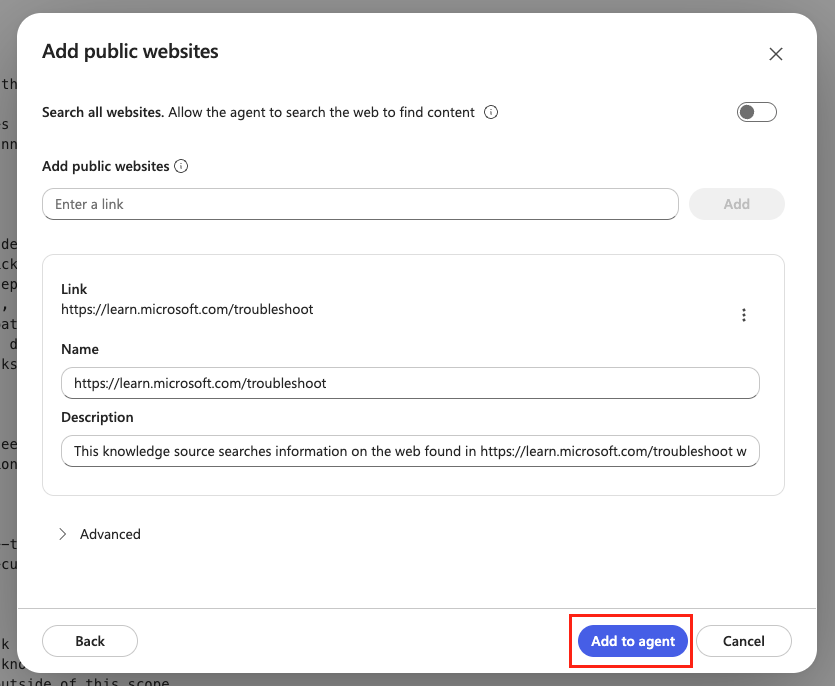
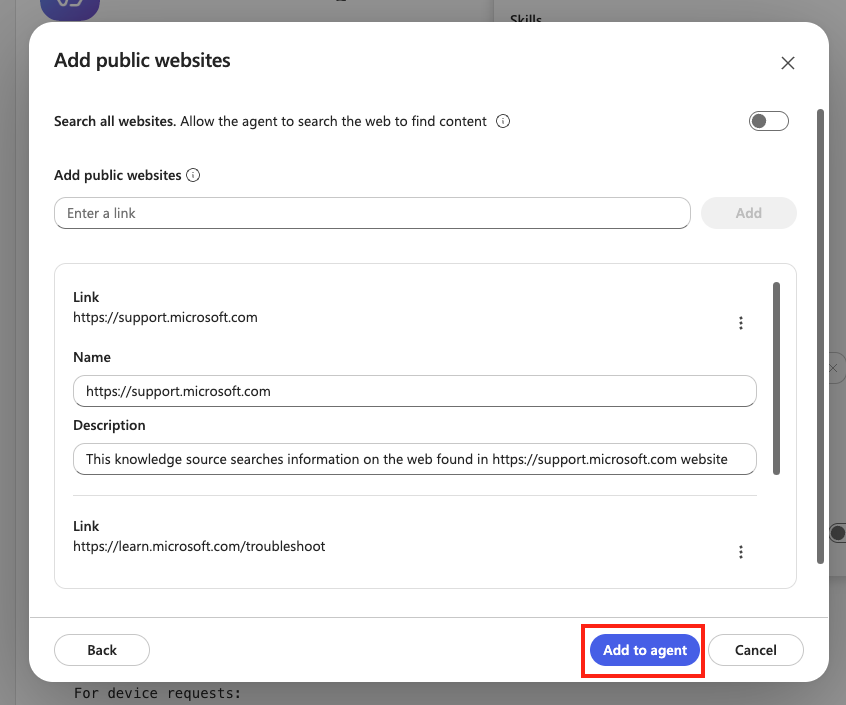
Clarify harness and knowledge setup
Reorder the harness comparison, explain GitHub Copilot harness governance, and refine SharePoint and public website setup instructions with updated screenshots.

diff --git a/docs/recruit-nextgen/02-copilot-studio-fundamentals/index.md b/docs/recruit-nextgen/02-copilot-studio-fundamentals/index.md
@@ -107,14 +107,14 @@ A harness is therefore broader than orchestration. It includes an orchestration 
 
 Once you've chosen **Copilot Studio** as your build surface, choose the harness that matches the work:
 
-| | **GitHub Copilot harness** | **Standard harness** | **Copilot chat harness** |
+| | **Copilot chat harness** | **Standard harness** | **GitHub Copilot harness** |
 |---|---|---|---|
-| **Best when** | The agent must reason through complex, multi-step work | The experience needs structured conversations, maker-defined components, or predictable control | The goal is to ground Microsoft 365 Copilot Chat in enterprise knowledge |
-| **Orchestration** | Enhanced, goal-driven orchestration that plans, acts, reviews results, and adjusts | Configurable classic or generative orchestration over topics and other maker-defined capabilities | Uses the Microsoft 365 Copilot Chat experience |
-| **Key capabilities** | Skills, memory, connected agents, tools, workflows, and file creation | Topics, knowledge, tools, prompts, branches, and structured conversations | Enterprise knowledge inside Microsoft 365 Copilot Chat |
-| **Publishing** | Internal teams or external customers | Internal teams or external customers | Internal teams |
-| **Billing** | Usage-based Copilot Credits | Standard Copilot Studio licensing | Consumption-based or included in eligible Microsoft 365 Copilot user licenses |
-| **In this course** | **Mission 02 onward** | Not built here | Not built here |
+| **Best when** | The goal is to ground Microsoft 365 Copilot Chat in enterprise knowledge | The experience needs structured conversations, maker-defined components, or predictable control | The agent must reason through complex, multi-step work |
+| **Orchestration** | Uses the Microsoft 365 Copilot Chat experience | Configurable classic or generative orchestration over topics and other maker-defined capabilities | Enhanced, goal-driven orchestration that plans, acts, reviews results, and adjusts |
+| **Key capabilities** | Enterprise knowledge inside Microsoft 365 Copilot Chat | Topics, knowledge, tools, prompts, branches, and structured conversations | Skills, memory, connected agents, tools, workflows, and file creation |
+| **Publishing** | Internal teams | Internal teams or external customers | Internal teams or external customers |
+| **Billing** | Consumption-based or included in eligible Microsoft 365 Copilot user licenses | Standard Copilot Studio licensing | Usage-based Copilot Credits |
+| **In this course** | Not built here | Not built here | **Mission 02 onward** |
 
 ![Decision map for choosing the Copilot chat, Standard, or GitHub Copilot harness based on the work an agent must perform](./assets/02-harness-decision.png)
 
@@ -129,6 +129,26 @@ The same business scenario can be implemented with different harnesses depending
 | Interpret varied requests and dynamically combine troubleshooting guidance, live data, reusable skills, and workflows | **GitHub Copilot harness** |
 
 In this course, the completed `Contoso IT Concierge` will use the third approach. It will interpret an employee's request, select the appropriate skill and tool, gather missing information, and invoke a workflow when the request is ready. The scenario is intentionally straightforward so you can learn the architecture before applying it to more complex business processes.
+
+## Why is it called the "GitHub Copilot" Harness
+
+You may be wondering why it's called the **GitHub Copilot harness**.
+
+The name reflects the orchestration technology used by the harness which is built around the Github Copilot SDK. It does **not** mean your agent runs inside GitHub Enterprise Cloud or requires GitHub services to function.
+
+When you build an agent using the GitHub Copilot harness:
+
+- Your agent remains a Microsoft Copilot Studio agent
+- Your agent is managed within Copilot Studio
+- Your agent follows the governance model of your Copilot Studio environment
+
+You do **not** need:
+
+- A GitHub Copilot subscription
+- A GitHub Enterprise Cloud deployment
+- GitHub-specific administration or governance
+
+The harness determines how an agent plans, reasons, and executes work. Copilot Studio continues to determine how the solution is built, governed, managed, and deployed.
 
 ## Why the GitHub Copilot Harness Is Different
 

diff --git a/docs/recruit-nextgen/04-build-a-custom-agent/index.md b/docs/recruit-nextgen/04-build-a-custom-agent/index.md
@@ -196,18 +196,6 @@ Before starting this lab, make sure you have:
 
     ![Add the Microsoft support website URL](./assets/04-add-the-microsoft-support-website-url.png)
 
-1. Select **Add to Agent**
-
-    ![Add public website to the agent](./assets/04-add-public-website-to-the-agent.png)
-
-1. Select the **Add Button** next to the **Instructions** section in the configuration panel.
-
-    ![Add another agent knowledge source](./assets/04-add-another-agent-knowledge-source.png)
-
-1. Select the **Public websites** option
-
-    ![Select public website knowledge source again](./assets/04-select-public-website-knowledge-source.png)
-
 1. Copy and paste the following text into the input then select **Add**. Make sure to update the SharePoint site with your site's URL.
 
     ```text
@@ -216,11 +204,11 @@ Before starting this lab, make sure you have:
 
     ![Add the additional public website URL](./assets/04-add-the-additional-public-website-url.png)
 
-1. Select **Add to Agent**
+1. Select **Add to Agent** to add both public website knowledge sources to your agent.
 
     ![Add second public website to agent](./assets/04-add-second-public-website-to-agent.png)
 
-1. Select the **Add Button** next to the **Instructions** section in the configuration panel one last time.
+1. Select the **Add Button** next to the **Knowledge** section in the configuration panel one last time.
 
     ![Add SharePoint as a knowledge source](./assets/04-add-sharepoint-as-a-knowledge-source.png)
 

diff --git a/docs/recruit-nextgen/00-course-setup/index.md b/docs/recruit-nextgen/00-course-setup/index.md
@@ -204,6 +204,9 @@ A new SharePoint site is required for completing `Mission 04 - Build an agent wi
 
     ![Select IT help desk site template](images/00-select-it-help-desk-site-template.png)
 
+> [!NOTE]
+> Your screen might look slightly different. The templates show in order of most frequently used.
+
 1. Select **Use template** to create a new SharePoint site from the IT help desk template.
 
     ![Use the IT help desk template](images/00-use-the-it-help-desk-template.png)
@@ -258,7 +261,7 @@ A new SharePoint site is required for completing `Mission 04 - Build an agent wi
 
     ![Change column types to Choice](images/00-change-column-types-to-choice.png)
 
-1. Change the following columns manually from `Single line of text` to `Choice`, `Date and time` and `Number` fields.
+1. Scroll to the right and change the following columns manually from `Single line of text` to `Choice`, `Date and time` and `Number` fields, respectively. Then select **Next**.
 
     | Column         | Updated Type  |
     | -------------- | ------------- |
